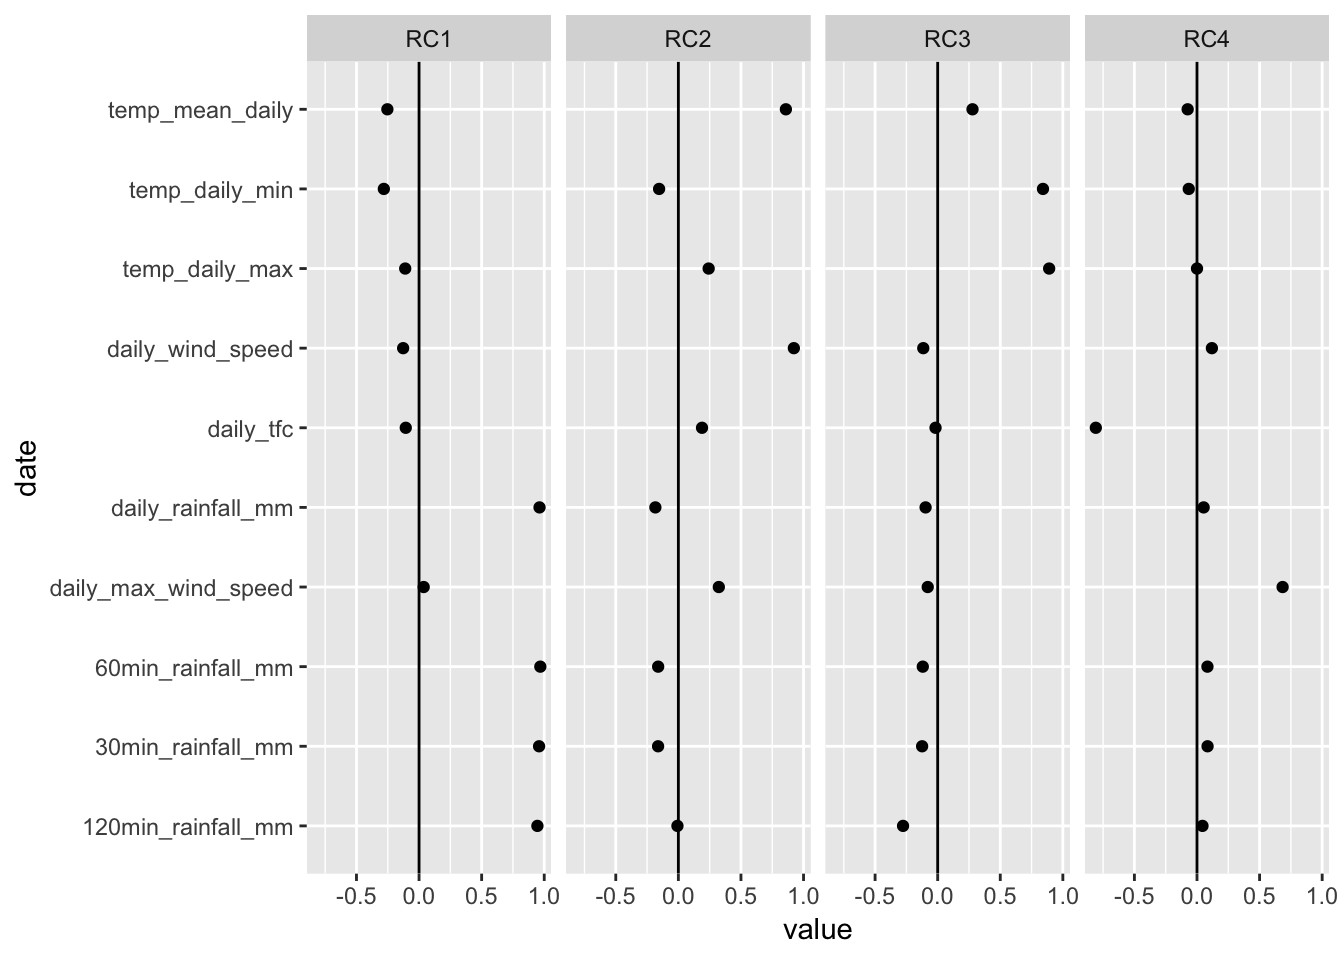
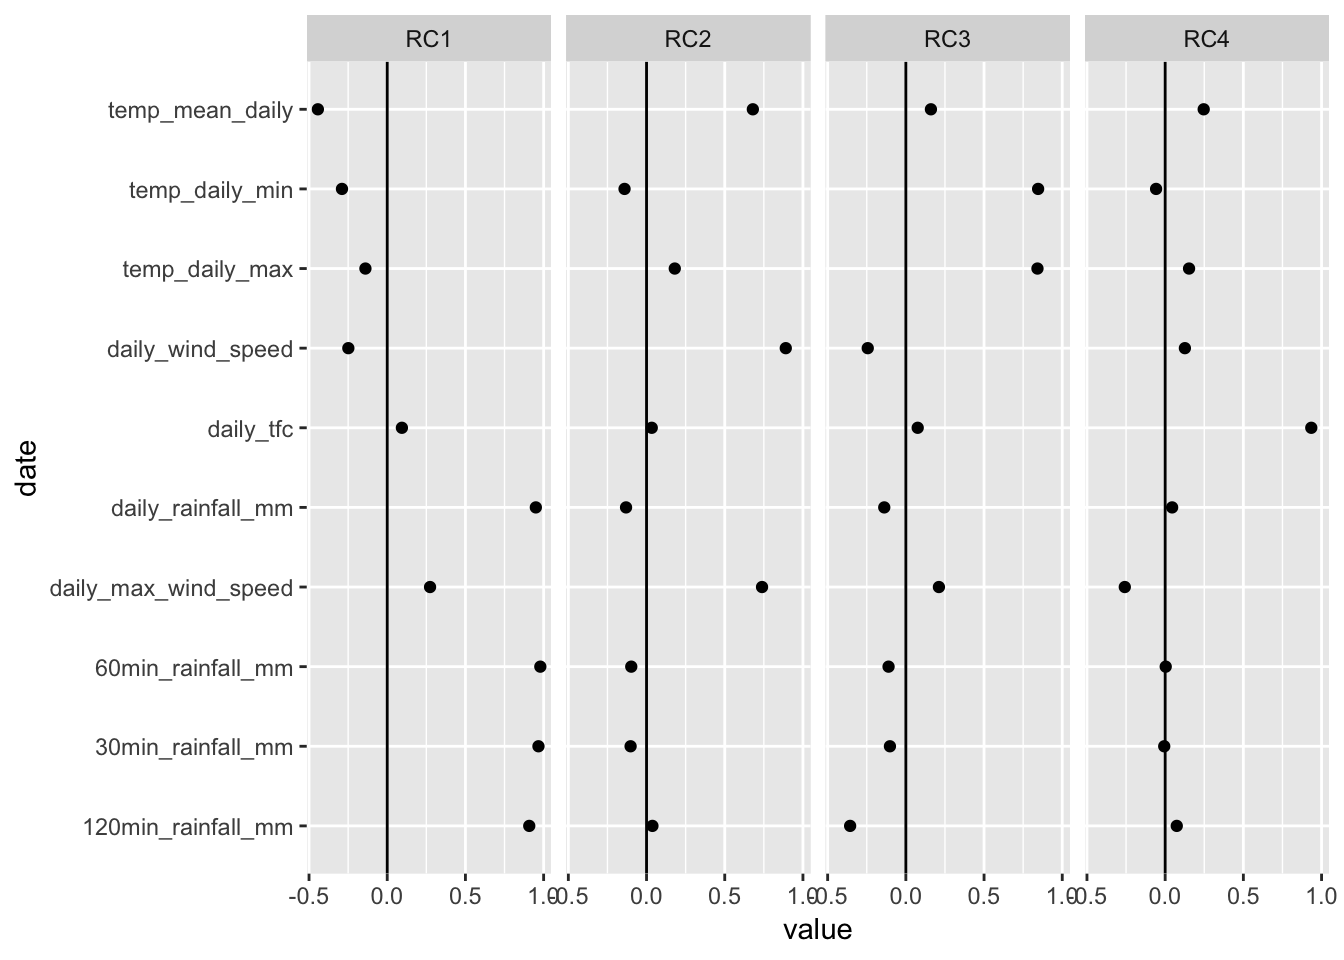
again

diff --git a/_book/dimension-reduction.html b/_book/dimension-reduction.html
@@ -226,31 +226,31 @@ fa_daily_stats</code></pre></div>
 ## Call: principal(r = ., nfactors = 4, rotate = &quot;varimax&quot;)
 ## Standardized loadings (pattern matrix) based upon correlation matrix
 ##                        RC1   RC2   RC3   RC4   h2    u2 com
-## daily_rainfall_mm     0.96 -0.18 -0.10  0.05 0.97 0.028 1.1
-## 30min_rainfall_mm     0.96 -0.16 -0.12  0.08 0.97 0.032 1.1
-## 60min_rainfall_mm     0.97 -0.16 -0.12  0.08 0.99 0.014 1.1
-## 120min_rainfall_mm    0.95 -0.01 -0.28  0.04 0.97 0.028 1.2
-## temp_mean_daily      -0.25  0.86  0.28 -0.07 0.88 0.115 1.4
-## temp_daily_max       -0.11  0.24  0.89  0.00 0.86 0.136 1.2
-## temp_daily_min       -0.28 -0.15  0.84 -0.07 0.81 0.185 1.3
-## daily_tfc            -0.11  0.19 -0.02 -0.81 0.70 0.299 1.1
-## daily_wind_speed     -0.13  0.92 -0.12  0.12 0.89 0.105 1.1
-## daily_max_wind_speed  0.04  0.32 -0.08  0.68 0.58 0.420 1.5
+## daily_rainfall_mm     0.95 -0.13 -0.14  0.04 0.94 0.059 1.1
+## 30min_rainfall_mm     0.97 -0.10 -0.10 -0.01 0.96 0.044 1.0
+## 60min_rainfall_mm     0.98 -0.10 -0.11  0.00 0.98 0.020 1.0
+## 120min_rainfall_mm    0.91  0.04 -0.36  0.07 0.96 0.042 1.3
+## temp_mean_daily      -0.44  0.68  0.16  0.25 0.74 0.255 2.2
+## temp_daily_max       -0.14  0.18  0.84  0.15 0.78 0.216 1.2
+## temp_daily_min       -0.29 -0.14  0.85 -0.06 0.82 0.178 1.3
+## daily_tfc             0.09  0.03  0.08  0.93 0.89 0.111 1.0
+## daily_wind_speed     -0.25  0.89 -0.24  0.13 0.93 0.070 1.4
+## daily_max_wind_speed  0.27  0.74  0.21 -0.26 0.73 0.268 1.7
 ## 
 ##                        RC1  RC2  RC3  RC4
-## SS loadings           3.86 1.90 1.71 1.16
-## Proportion Var        0.39 0.19 0.17 0.12
-## Cumulative Var        0.39 0.58 0.75 0.86
-## Proportion Explained  0.45 0.22 0.20 0.13
-## Cumulative Proportion 0.45 0.67 0.87 1.00
+## SS loadings           4.07 1.89 1.73 1.05
+## Proportion Var        0.41 0.19 0.17 0.11
+## Cumulative Var        0.41 0.60 0.77 0.87
+## Proportion Explained  0.47 0.22 0.20 0.12
+## Cumulative Proportion 0.47 0.68 0.88 1.00
 ## 
-## Mean item complexity =  1.2
+## Mean item complexity =  1.3
 ## Test of the hypothesis that 4 components are sufficient.
 ## 
 ## The root mean square of the residuals (RMSR) is  0.07 
-##  with the empirical chi square  43.71  with prob &lt;  8.2e-06 
+##  with the empirical chi square  41.07  with prob &lt;  2.3e-05 
 ## 
-## Fit based upon off diagonal values = 0.97</code></pre>
+## Fit based upon off diagonal values = 0.98</code></pre>
 <div class="sourceCode"><pre class="sourceCode r"><code class="sourceCode r">fa_daily_stats[[<span class="st">&#39;loadings&#39;</span>]] <span class="op">%&gt;%</span><span class="st"> </span>
 <span class="st">  </span><span class="kw">unclass</span>() <span class="op">%&gt;%</span><span class="st"> </span>
 <span class="st">  </span><span class="kw">as_tibble</span>(<span class="dt">rownames =</span> <span class="st">&quot;date&quot;</span>) <span class="op">%&gt;%</span>
@@ -278,30 +278,30 @@ fa_hourly_stats</code></pre></div>
 <pre><code>## Principal Components Analysis
 ## Call: principal(r = ., nfactors = 4, rotate = &quot;varimax&quot;)
 ## Standardized loadings (pattern matrix) based upon correlation matrix
-##               RC1   RC2   RC4   RC3   h2    u2 com
-## temp         0.95  0.06 -0.23  0.11 0.96 0.036 1.1
-## temp_min     0.93  0.09 -0.19  0.03 0.90 0.096 1.1
-## temp_max     0.91  0.05 -0.24  0.14 0.90 0.095 1.2
-## pressure    -0.33 -0.03  0.60 -0.38 0.61 0.388 2.3
-## humidity    -0.92 -0.02  0.03 -0.05 0.86 0.141 1.0
-## wind_speed   0.68  0.06  0.20 -0.05 0.51 0.493 1.2
-## wind_deg     0.05 -0.03  0.06  0.93 0.88 0.119 1.0
-## rainfall_mm -0.01  0.12  0.83  0.20 0.75 0.252 1.2
-## total_tfc   -0.02  0.92  0.09  0.06 0.86 0.143 1.0
-## hour         0.17  0.91  0.01 -0.09 0.85 0.145 1.1
+##               RC1   RC2   RC3   RC4   h2    u2 com
+## temp         0.97  0.09  0.10  0.06 0.97 0.034 1.0
+## temp_min     0.94  0.09  0.04  0.08 0.89 0.109 1.0
+## temp_max     0.94  0.07  0.14  0.07 0.92 0.085 1.1
+## pressure    -0.25  0.19 -0.76  0.00 0.67 0.327 1.4
+## humidity    -0.90 -0.14 -0.04 -0.03 0.83 0.172 1.1
+## wind_speed   0.72 -0.08  0.09 -0.17 0.56 0.444 1.2
+## wind_deg    -0.01  0.22  0.82 -0.03 0.73 0.270 1.2
+## rainfall_mm  0.03  0.07 -0.02  0.99 0.98 0.023 1.0
+## total_tfc    0.06  0.91  0.01  0.13 0.85 0.150 1.1
+## hour         0.10  0.88  0.04 -0.03 0.79 0.211 1.0
 ## 
-##                        RC1  RC2  RC4  RC3
-## SS loadings           4.04 1.70 1.25 1.10
-## Proportion Var        0.40 0.17 0.13 0.11
-## Cumulative Var        0.40 0.57 0.70 0.81
-## Proportion Explained  0.50 0.21 0.15 0.14
-## Cumulative Proportion 0.50 0.71 0.86 1.00
+##                        RC1  RC2  RC3  RC4
+## SS loadings           4.10 1.75 1.29 1.03
+## Proportion Var        0.41 0.17 0.13 0.10
+## Cumulative Var        0.41 0.58 0.71 0.82
+## Proportion Explained  0.50 0.21 0.16 0.13
+## Cumulative Proportion 0.50 0.72 0.87 1.00
 ## 
-## Mean item complexity =  1.2
+## Mean item complexity =  1.1
 ## Test of the hypothesis that 4 components are sufficient.
 ## 
 ## The root mean square of the residuals (RMSR) is  0.07 
-##  with the empirical chi square  47.85  with prob &lt;  1.5e-06 
+##  with the empirical chi square  44.36  with prob &lt;  6.3e-06 
 ## 
 ## Fit based upon off diagonal values = 0.97</code></pre>
 <div class="sourceCode"><pre class="sourceCode r"><code class="sourceCode r">fa_hourly_stats[[<span class="st">&#39;loadings&#39;</span>]] <span class="op">%&gt;%</span><span class="st"> </span>
